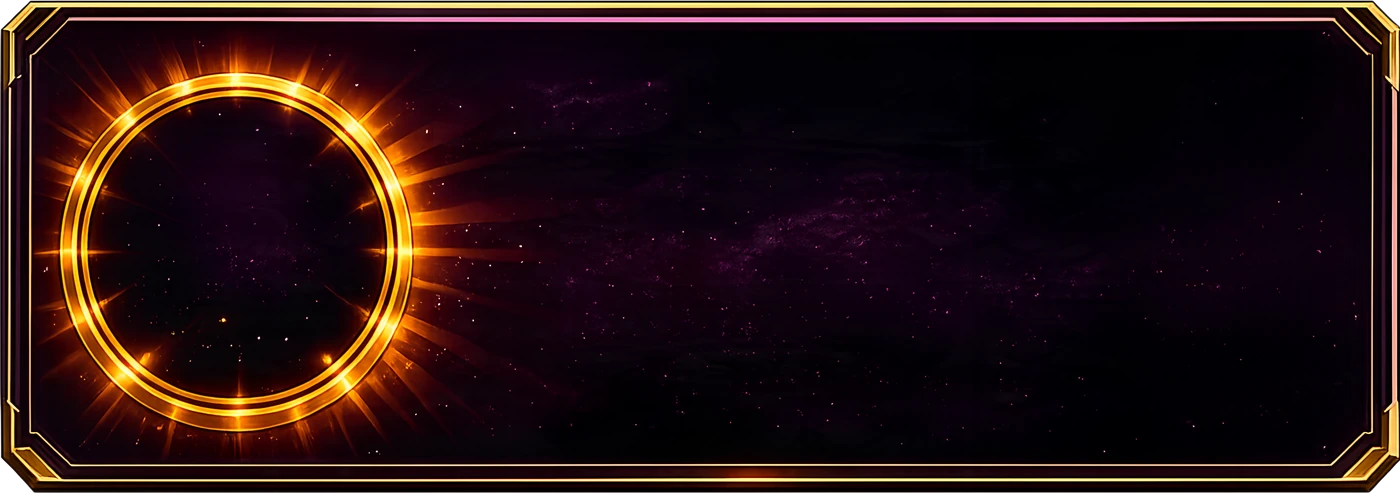
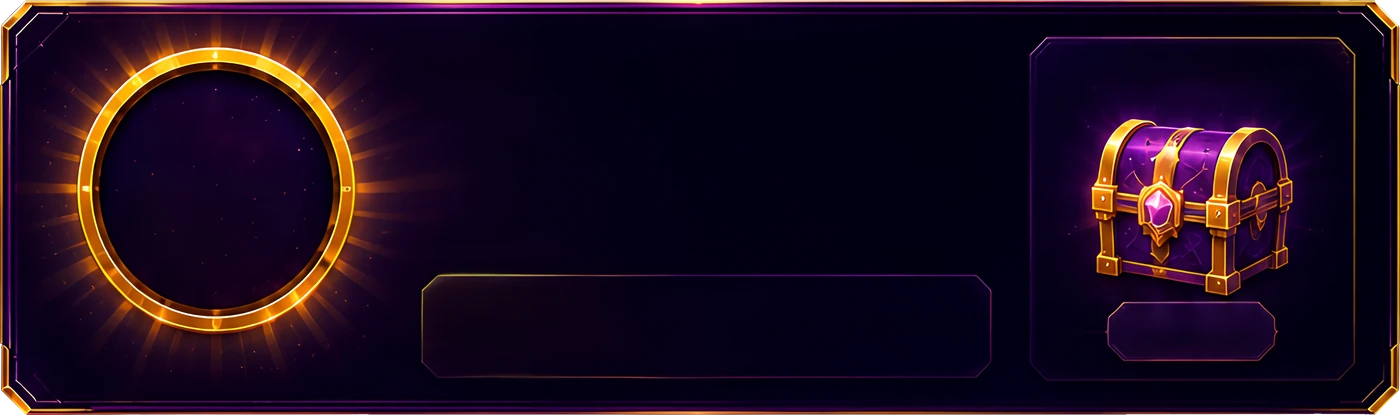
v2.109.0: de nieuwe letterpagina-sectie met de beloningskist
De sectie is vervangen door de nieuwe art, en die heeft alles wat de mockup
nodig had: de ring links, de hintpil onderin het midden en het kistpaneel
rechts. Daarmee kon de kop, de telling, de voortgangsbalk, de hint en de
stand op de kistplaat allemaal op hun eigen plek.

De vakken zijn van de art afgelezen en niet geschat: ring (15.4%, 46.5%)
met een binnenschijf van 14.6%, hintpil x 30.4..71.8% y 64.6..89.2%,
kistplaat x 78.9..92.1% y 72.8..85.5%.

Alle letterhoogtes zijn teruggeschaald. Op een telefoon is deze sectie maar
107 pixels hoog en liepen vier van de zes tekstvakken over hun rand, waardoor
de tekst tegen de lijnen van de art kwam. Nu past alles binnen zijn eigen
vak, nagemeten in de DOM en niet op het oog. De gouden letter is groter en
loopt bewust een stukje over de binnenschijf, want netjes erbinnen oogt hij
verloren in de ring.

Vier kaarten op een rij, zoals in het ontwerp.

De balk met wat er nog ontbreekt staat nu VAST onderaan het scherm. Het
raster kan honderden kaarten lang worden, en dan stond de belangrijkste knop
pas na eindeloos scrollen. Nu scrollt alleen de verzameling.

diff --git a/frontend/src/screens/Ontdekken.tsx b/frontend/src/screens/Ontdekken.tsx
@@ -301,23 +301,31 @@ const KAART_RATIO = "658 / 1012";
 //              uitgemiddeld op het rechterblok, zie scripts)
 //   plaat 1    x 47.4..93.2%   y 10.0..39.9%   -> titel en telling
 //   plaat 2    x 47.4..93.2%   y 58.7..85.1%   -> de voortgangsbalk
-const SECTIE_RATIO = 1400 / 493;
+const SECTIE_RATIO = 1400 / 415;
 
-// De sectie is EEN afbeelding: het gouden kader, de gloeiende ring links en
-// het kosmische paars ertussen zitten er al in. De inhoud gaat er als laag
-// overheen, op plekken die met de goud-kleur zijn opgemeten en niet geschat:
+// Afgelezen van sectie.webp (1400x415), niet geschat:
+//   ring        midden (15.4%, 46.5%)  buitendiameter 17.9%, binnenschijf 14.6%
+//   hintpil     x 30.4..71.8%   y 64.6..89.2%
+//   kistpaneel  x 73.6..96.1%   y  6.7..92.8%
+//   kistplaat   x 78.9..92.1%   y 72.8..85.5%
 //
-//   ring   midden (17.07%, 48.48%)   buitendiameter 25.6% van de breedte
-//
-// De letter krijgt 70% van de ring, zodat hij de gouden band niet raakt.
+// De vrije ruimte in het midden loopt van 30% tot 72% breed en van 6% tot 62%
+// hoog, boven de hintpil. Daar passen de kop, de telling en de balk in, met
+// lucht ertussen: alles wat tegen een lijn aan komt te staan leest als een
+// fout, ook als het er net binnen valt.
 const VLAK = {
-  letter: { left: "8.5%", right: "74.4%", top: "24.1%", bottom: "27.2%" },
-  tekst:  { left: "44.0%", right: "5.0%", top: "16.0%", bottom: "52.0%" },
-  balk:   { left: "44.0%", right: "5.0%", top: "58.0%", bottom: "20.0%" },
+  // De letter mag over de binnenschijf heen lopen: netjes erbinnen oogt hij
+  // verloren in de ring.
+  letter: { left: "7.9%",  right: "77.1%", top: "21.2%", bottom: "28.2%" },
+  kop:    { left: "32.0%", right: "30.0%", top: "10.0%", bottom: "56.0%" },
+  balk:   { left: "32.0%", right: "30.0%", top: "45.0%", bottom: "38.0%" },
+  hint:   { left: "32.5%", right: "30.3%", top: "68.5%", bottom: "14.5%" },
+  beloning:  { left: "74.5%", right: "4.5%", top: "10.0%", bottom: "80.0%" },
+  kistplaat: { left: "79.5%", right: "8.5%", top: "73.5%", bottom: "15.0%" },
 } as const;
 
-function Sectie({ letter, discovered, total, percent }: {
-  letter: string; discovered: number; total: number; percent: number;
+function Sectie({ letter, discovered, total, percent, compleet }: {
+  letter: string; discovered: number; total: number; percent: number; compleet: boolean;
 }) {
   const { t } = useT();
   return (
@@ -328,33 +336,51 @@ function Sectie({ letter, discovered, total, percent }: {
           afmetingen rekt niet mee met left/right/top/bottom. */}
       <div style={{ position: "absolute", ...VLAK.letter }}>
         <img
-          src={`/letters/${letter}.webp`}
-          alt={letter}
+          src={`/letters/${letter}.webp`} alt={letter}
           style={{ width: "100%", height: "100%", objectFit: "contain", display: "block" }}
         />
       </div>
 
-      {/* Kop en telling in het lege deel rechts. */}
-      <div style={{ position: "absolute", ...VLAK.tekst, display: "flex", flexDirection: "column", justifyContent: "flex-end", overflow: "hidden" }}>
-        <span style={{ fontFamily: font.wide, fontSize: "clamp(15px, 5.4vw, 26px)", lineHeight: 1, letterSpacing: ".03em", color: colors.ink, whiteSpace: "nowrap" }}>
+      {/* Kop en telling */}
+      <div style={{ position: "absolute", ...VLAK.kop, display: "flex", flexDirection: "column", justifyContent: "flex-start", overflow: "hidden" }}>
+        <span style={{ fontFamily: font.wide, fontSize: "clamp(10px, 4.2vw, 26px)", lineHeight: 1, letterSpacing: ".03em", color: colors.ink, whiteSpace: "nowrap" }}>
           {t("ontdekkenLetterKop", { letter })}
         </span>
-        <span style={{ fontFamily: font.ui, fontSize: "clamp(9px, 2.9vw, 13px)", lineHeight: 1.2, color: colors.sub, marginTop: "3%", whiteSpace: "nowrap" }}>
+        <span style={{ fontFamily: font.ui, fontSize: "clamp(6.5px, 2.2vw, 12px)", lineHeight: 1.15, color: colors.sub, marginTop: "3%", whiteSpace: "nowrap" }}>
           {t("ontdekkenKaartenOntdekt", { n: discovered, total })}
         </span>
       </div>
 
-      {/* De voortgangsbalk: de gouden plaat komt van links tevoorschijn tot het
-          percentage, met een donkere baan eronder. Het cijfer staat ernaast en
-          niet erin, want in een balk van deze hoogte wordt het onleesbaar. */}
-      <div style={{ position: "absolute", ...VLAK.balk, display: "flex", alignItems: "center", gap: "3%" }}>
-        <div style={{ flex: 1, position: "relative", height: "40%", overflow: "hidden", borderRadius: 999, background: "rgba(0,0,0,.5)", border: `1px solid ${withAlpha(colors.gold, 0.28)}` }}>
+      {/* De voortgangsbalk met het percentage ernaast, zoals in het ontwerp. */}
+      <div style={{ position: "absolute", ...VLAK.balk, display: "flex", alignItems: "center", gap: "4%" }}>
+        <div style={{ flex: 1, position: "relative", height: "34%", overflow: "hidden", borderRadius: 999, background: "rgba(0,0,0,.5)", border: `1px solid ${withAlpha(colors.gold, 0.3)}` }}>
           <div style={{ position: "absolute", inset: 0, width: `${Math.max(percent, 0)}%`, overflow: "hidden", transition: "width .5s ease" }}>
             <img src="/ontdek/plaat-goud.webp" alt="" style={{ position: "absolute", left: 0, top: 0, height: "100%", width: "auto", maxWidth: "none" }} />
           </div>
         </div>
-        <span style={{ fontFamily: font.display, fontWeight: 800, fontSize: "clamp(11px, 3.6vw, 17px)", color: percent >= 100 ? colors.gold : colors.ink, whiteSpace: "nowrap" }}>
+        <span style={{ fontFamily: font.display, fontWeight: 800, fontSize: "clamp(7.5px, 2.6vw, 16px)", lineHeight: 1, color: compleet ? colors.gold : colors.ink, whiteSpace: "nowrap" }}>
           {percent}%
+        </span>
+      </div>
+
+      {/* De hintregel in de pil die in de art zit. */}
+      <div style={{ position: "absolute", ...VLAK.hint, display: "flex", alignItems: "center", gap: "3%", overflow: "hidden" }}>
+        <Lightbulb size={11} color={colors.gold} style={{ flexShrink: 0 }} />
+        <span style={{ fontFamily: font.ui, fontSize: "clamp(5.5px, 1.85vw, 11px)", lineHeight: 1.2, color: compleet ? colors.gold : colors.sub }}>
+          {compleet ? t("ontdekkenLetterCompleet") : t("ontdekkenHint", { letter })}
+        </span>
+      </div>
+
+      {/* Het kistpaneel: het opschrift erboven, de stand op de plaat eronder.
+          De kist zelf zit al in de art. */}
+      <div style={{ position: "absolute", ...VLAK.beloning, display: "flex", justifyContent: "center", alignItems: "flex-start" }}>
+        <span style={{ fontFamily: font.ui, fontSize: "clamp(5px, 1.6vw, 10px)", fontWeight: 600, lineHeight: 1.1, color: colors.sub, textAlign: "center" }}>
+          {t("ontdekkenBeloning", { letter })}
+        </span>
+      </div>
+      <div style={{ position: "absolute", ...VLAK.kistplaat, display: "grid", placeItems: "center" }}>
+        <span style={{ fontFamily: font.display, fontWeight: 800, fontSize: "clamp(6.5px, 2.1vw, 13px)", color: compleet ? colors.gold : colors.ink }}>
+          {discovered} / {total}
         </span>
       </div>
     </div>
@@ -528,13 +554,8 @@ function Letter({ data, onVerzameling }: { data: LetterView; onVerzameling: () =
   return (
     <>
       <div style={{ marginBottom: 12 }}>
-        <Sectie letter={data.letter} discovered={data.discovered} total={data.total} percent={percent} />
+        <Sectie letter={data.letter} discovered={data.discovered} total={data.total} percent={percent} compleet={compleet} />
       </div>
-
-      <p style={{ margin: "0 0 12px", display: "flex", alignItems: "flex-start", gap: 7, fontFamily: font.ui, fontSize: 12, lineHeight: 1.35, color: compleet ? colors.gold : colors.sub }}>
-        <Lightbulb size={14} color={colors.gold} style={{ flexShrink: 0, marginTop: 1 }} />
-        {compleet ? t("ontdekkenLetterCompleet") : t("ontdekkenHint", { letter: data.letter })}
-      </p>
 
       {/* Sorteren, filteren en het raster in EEN sectie: het zijn de knoppen
           van deze verzameling, dus ze horen erbij en niet erboven te zweven.
@@ -559,7 +580,7 @@ function Letter({ data, onVerzameling }: { data: LetterView; onVerzameling: () =
             {data.cards.length === 0 ? t("ontdekkenGeenKaarten") : t("ontdekkenNiets")}
           </p>
         ) : (
-          <div style={{ display: "grid", gridTemplateColumns: "repeat(3, 1fr)", gap: 8 }}>
+          <div style={{ display: "grid", gridTemplateColumns: "repeat(4, 1fr)", gap: 6 }}>
             {kaarten.map((k) => (
               <KaartTegel key={k.id} kaart={k} nu={nu} onOpen={() => setOpenIdx(ontdekt.findIndex((c) => c.id === k.id))} />
             ))}
@@ -567,33 +588,47 @@ function Letter({ data, onVerzameling }: { data: LetterView; onVerzameling: () =
         )}
       </GoudKader>
 
-      {/* Wat er nog mist, met de weg naar de verzameling ernaast. Eén balk en
-          niet twee, want het zijn twee kanten van hetzelfde: dit is de stand,
-          en daar ga je verder. */}
+      {/* Wat er nog mist, met de weg naar de verzameling ernaast. VAST aan de
+          onderkant van het scherm: het raster kan honderden kaarten lang worden,
+          en dan staat de belangrijkste knop pas na eindeloos scrollen. Zo blijft
+          hij in beeld en scrollt alleen de verzameling.
+
+          De hoogte gaat als variabele naar de pagina, zodat de laatste rij
+          kaarten er niet achter verdwijnt. */}
       <div
-        className="panel-neon"
-        style={{ ...panelStyle, padding: "12px 18px", marginTop: 14, display: "flex", alignItems: "center", gap: 12 }}
+        style={{
+          position: "fixed", left: 0, right: 0, bottom: 0, zIndex: 20,
+          padding: "10px 16px calc(10px + var(--nav-h, 0px) + env(safe-area-inset-bottom))",
+          background: "linear-gradient(180deg, rgba(6,2,18,0) 0%, rgba(6,2,18,.92) 38%, rgba(6,2,18,.98) 100%)",
+          pointerEvents: "none",
+        }}
       >
-        <Layers size={20} color={colors.gold} style={{ flexShrink: 0 }} />
-        <div style={{ flex: 1, minWidth: 0 }}>
-          <div style={{ fontFamily: font.display, fontWeight: 700, fontSize: 13.5, color: compleet ? colors.gold : colors.ink, lineHeight: 1.15 }}>
-            {compleet
-              ? t("ontdekkenLetterCompleet")
-              : mist === 1 ? t("ontdekkenKaartOntbreekt") : t("ontdekkenKaartenOntbreken", { n: mist })}
-          </div>
-          {!compleet && (
-            <div style={{ fontFamily: font.ui, fontSize: 11.5, color: colors.sub, marginTop: 1, lineHeight: 1.2 }}>
-              {t("ontdekkenBlijfOefenen")}
+        <div
+          className="panel-neon"
+          style={{
+            ...panelStyle, padding: "10px 16px", maxWidth: 520, margin: "0 auto",
+            display: "flex", alignItems: "center", gap: 12,
+            background: "rgba(10,4,26,.86)", pointerEvents: "auto",
+          }}
+        >
+          <Layers size={20} color={colors.gold} style={{ flexShrink: 0 }} />
+          <div style={{ flex: 1, minWidth: 0 }}>
+            <div style={{ fontFamily: font.display, fontWeight: 700, fontSize: 13.5, color: compleet ? colors.gold : colors.ink, lineHeight: 1.15 }}>
+              {compleet
+                ? t("ontdekkenLetterCompleet")
+                : mist === 1 ? t("ontdekkenKaartOntbreekt") : t("ontdekkenKaartenOntbreken", { n: mist })}
             </div>
-          )}
-        </div>
-        {/* Dezelfde gouden knop als altijd, alleen kleiner. De plaat-art zit
-            in Button alleen op `full`, dus die blijft staan en het VAK eromheen
-            bepaalt de maat. */}
-        <div className="ontdek-kleineknop" style={{ flexShrink: 0, width: 132 }}>
-          <Button variant="gold" full compact onClick={onVerzameling}>
-            {t("ontdekkenBekijkVerzameling")}
-          </Button>
+            {!compleet && (
+              <div style={{ fontFamily: font.ui, fontSize: 11.5, color: colors.sub, marginTop: 1, lineHeight: 1.2 }}>
+                {t("ontdekkenBlijfOefenen")}
+              </div>
+            )}
+          </div>
+          <div className="ontdek-kleineknop" style={{ flexShrink: 0, width: 132 }}>
+            <Button variant="gold" full compact onClick={onVerzameling}>
+              {t("ontdekkenBekijkVerzameling")}
+            </Button>
+          </div>
         </div>
       </div>
 
@@ -808,7 +843,9 @@ export function Ontdekken({ onBack, onOefenen }: { onBack: () => void; onOefenen
     <div
       style={{
         maxWidth: 520, margin: "0 auto",
-        padding: "18px 16px calc(28px + var(--nav-h, 0px))",
+        // Ruimte onderaan voor de vaste balk, anders valt de laatste rij
+        // kaarten erachter.
+        padding: "18px 16px calc(104px + var(--nav-h, 0px) + env(safe-area-inset-bottom))",
         // De veilige zone bovenaan, zoals elk ander scherm: zonder dit ligt de
         // terugpijl op een iPhone onder de statusbalk en is hij niet te raken.
         paddingTop: "calc(18px + env(safe-area-inset-top))",

diff --git a/frontend/src/i18n/i18n.tsx b/frontend/src/i18n/i18n.tsx
@@ -1071,7 +1071,7 @@ const nl: Dict = {
   ontdekkenHerhalenKlaar: "{n} woorden staan klaar om te herhalen.",
   ontdekkenHerhalenLeeg: "Niets te herhalen. Speel een ronde om kaarten te verzamelen.",
   ontdekkenStartHerhaling: "Start herhaling",
-  ontdekkenKaartenOntdekt: "{n} van {total} kaarten ontdekt",
+  ontdekkenKaartenOntdekt: "{n} / {total} kaarten ontdekt",
   ontdekkenNogNietOntdekt: "Nog niet\nOntdekt",
   ontdekkenKaartenOntbreken: "{n} kaarten ontbreken",
   ontdekkenKaartOntbreekt: "1 kaart ontbreekt",
@@ -1085,7 +1085,7 @@ const nl: Dict = {
   ontdekkenNaarVerzameling: "Naar mijn verzameling",
   ontdekkenLetter: "Letter {letter}",
   ontdekkenLetterKop: "LETTER {letter}",
-  ontdekkenHint: "Ontdek alle kaarten om Letter {letter} te voltooien en beloningen te verdienen.",
+  ontdekkenHint: "Ontdek alle kaarten en verdien beloningen",
   ontdekkenBeloning: "Letter {letter} beloning",
   ontdekkenSorteren: "Sorteren",
   ontdekkenSorteerAZ: "A - Z",
@@ -2154,7 +2154,7 @@ const en: Dict = {
   ontdekkenHerhalenKlaar: "{n} words are ready for review.",
   ontdekkenHerhalenLeeg: "Nothing to review yet. Play a round to collect cards.",
   ontdekkenStartHerhaling: "Start review",
-  ontdekkenKaartenOntdekt: "{n} of {total} cards discovered",
+  ontdekkenKaartenOntdekt: "{n} / {total} cards discovered",
   ontdekkenNogNietOntdekt: "Not\nDiscovered",
   ontdekkenKaartenOntbreken: "{n} cards missing",
   ontdekkenKaartOntbreekt: "1 card missing",
@@ -2168,7 +2168,7 @@ const en: Dict = {
   ontdekkenNaarVerzameling: "To my collection",
   ontdekkenLetter: "Letter {letter}",
   ontdekkenLetterKop: "LETTER {letter}",
-  ontdekkenHint: "Discover every card to complete Letter {letter} and earn rewards.",
+  ontdekkenHint: "Discover every card and earn rewards",
   ontdekkenBeloning: "Letter {letter} reward",
   ontdekkenSorteren: "Sort",
   ontdekkenSorteerAZ: "A - Z",
